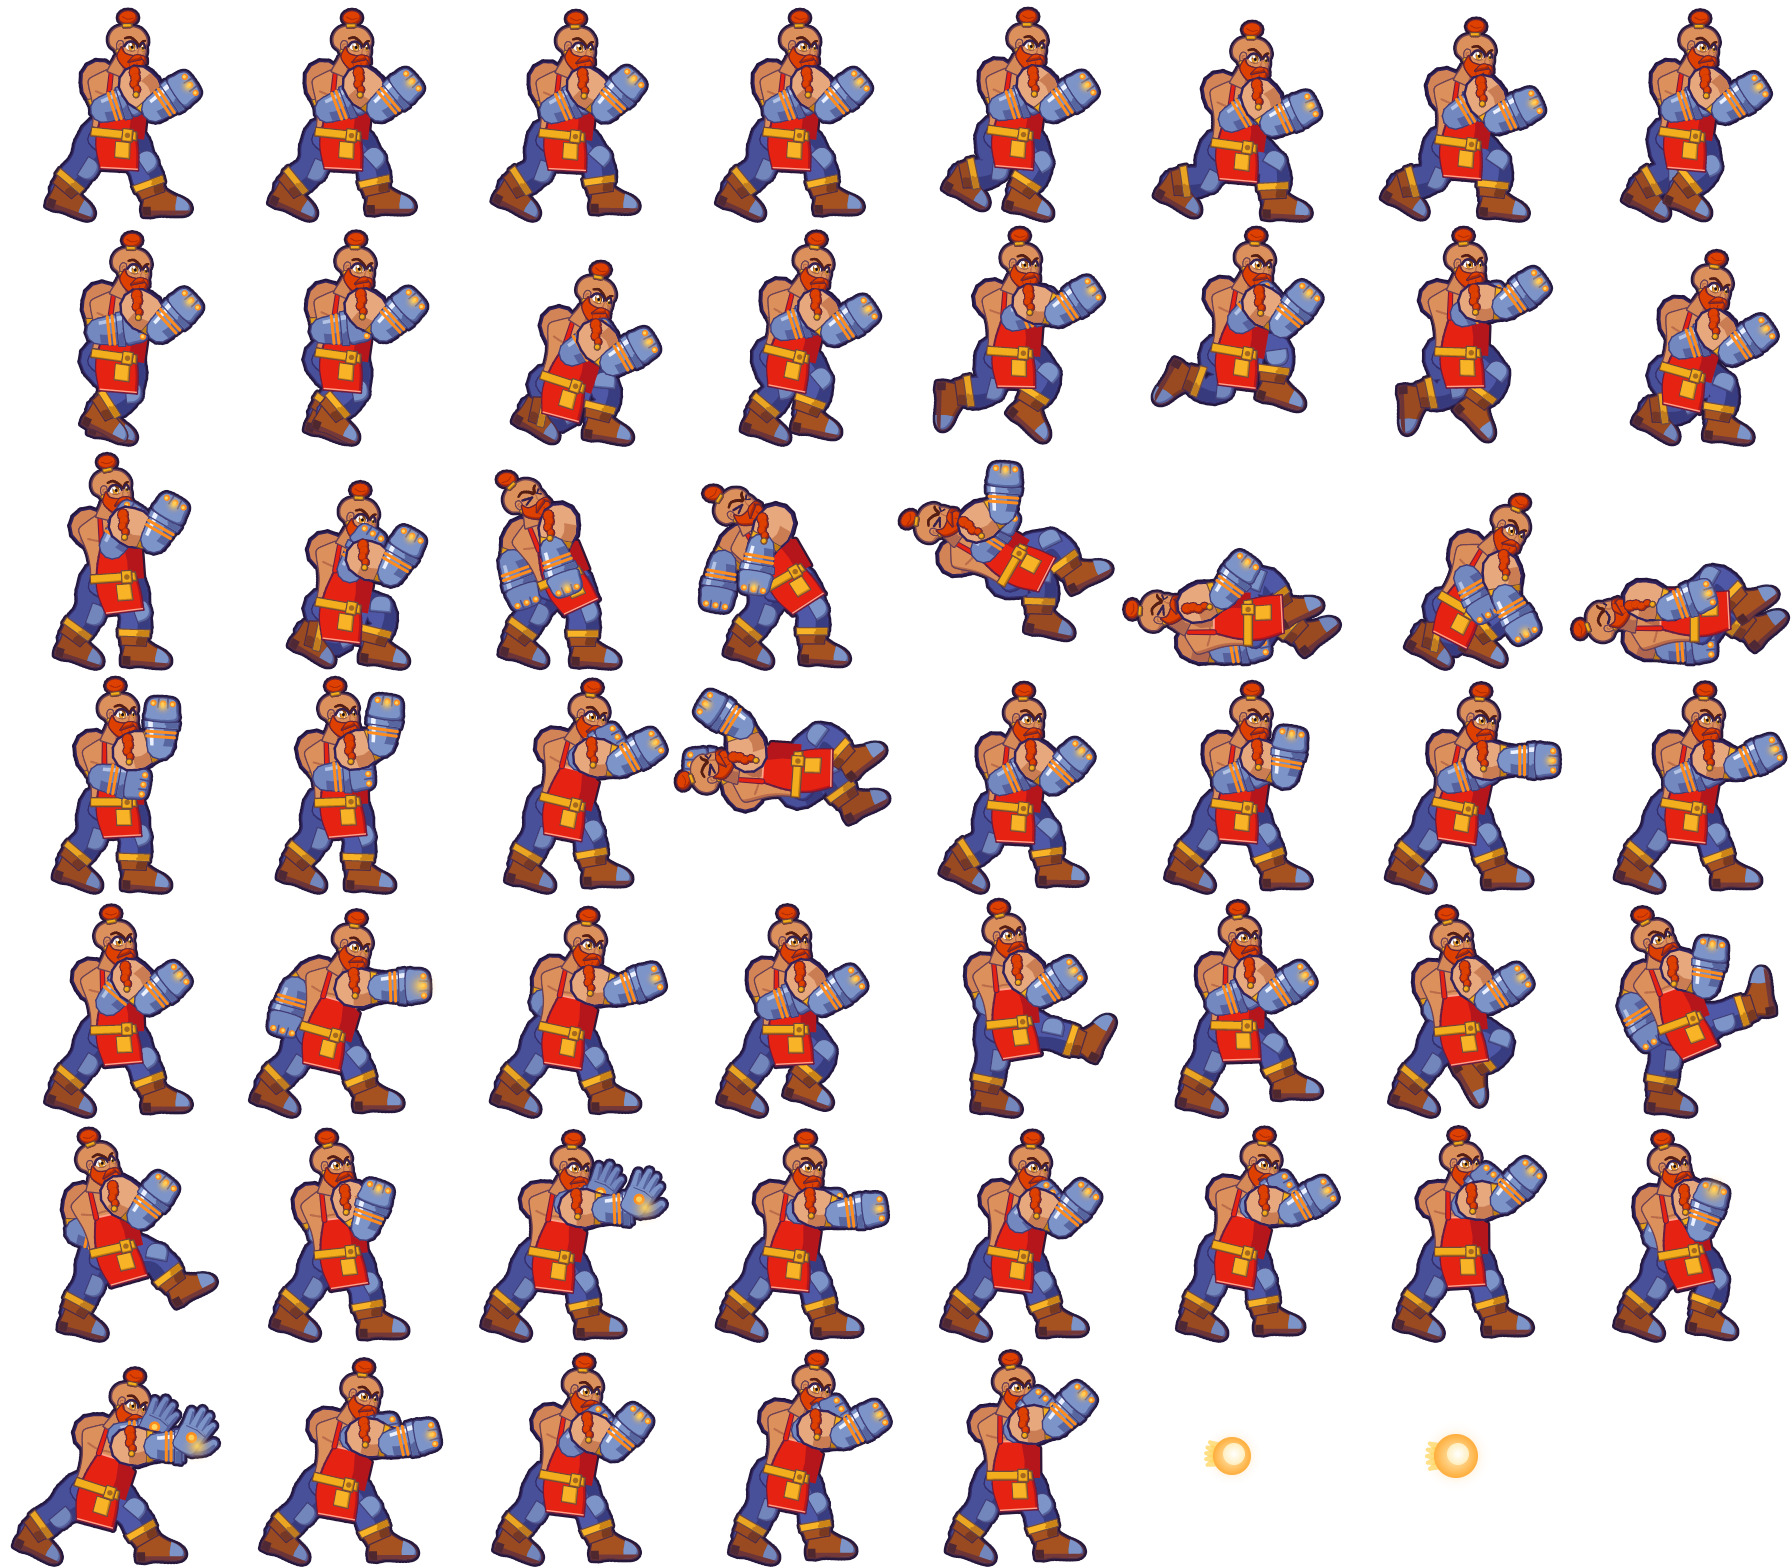
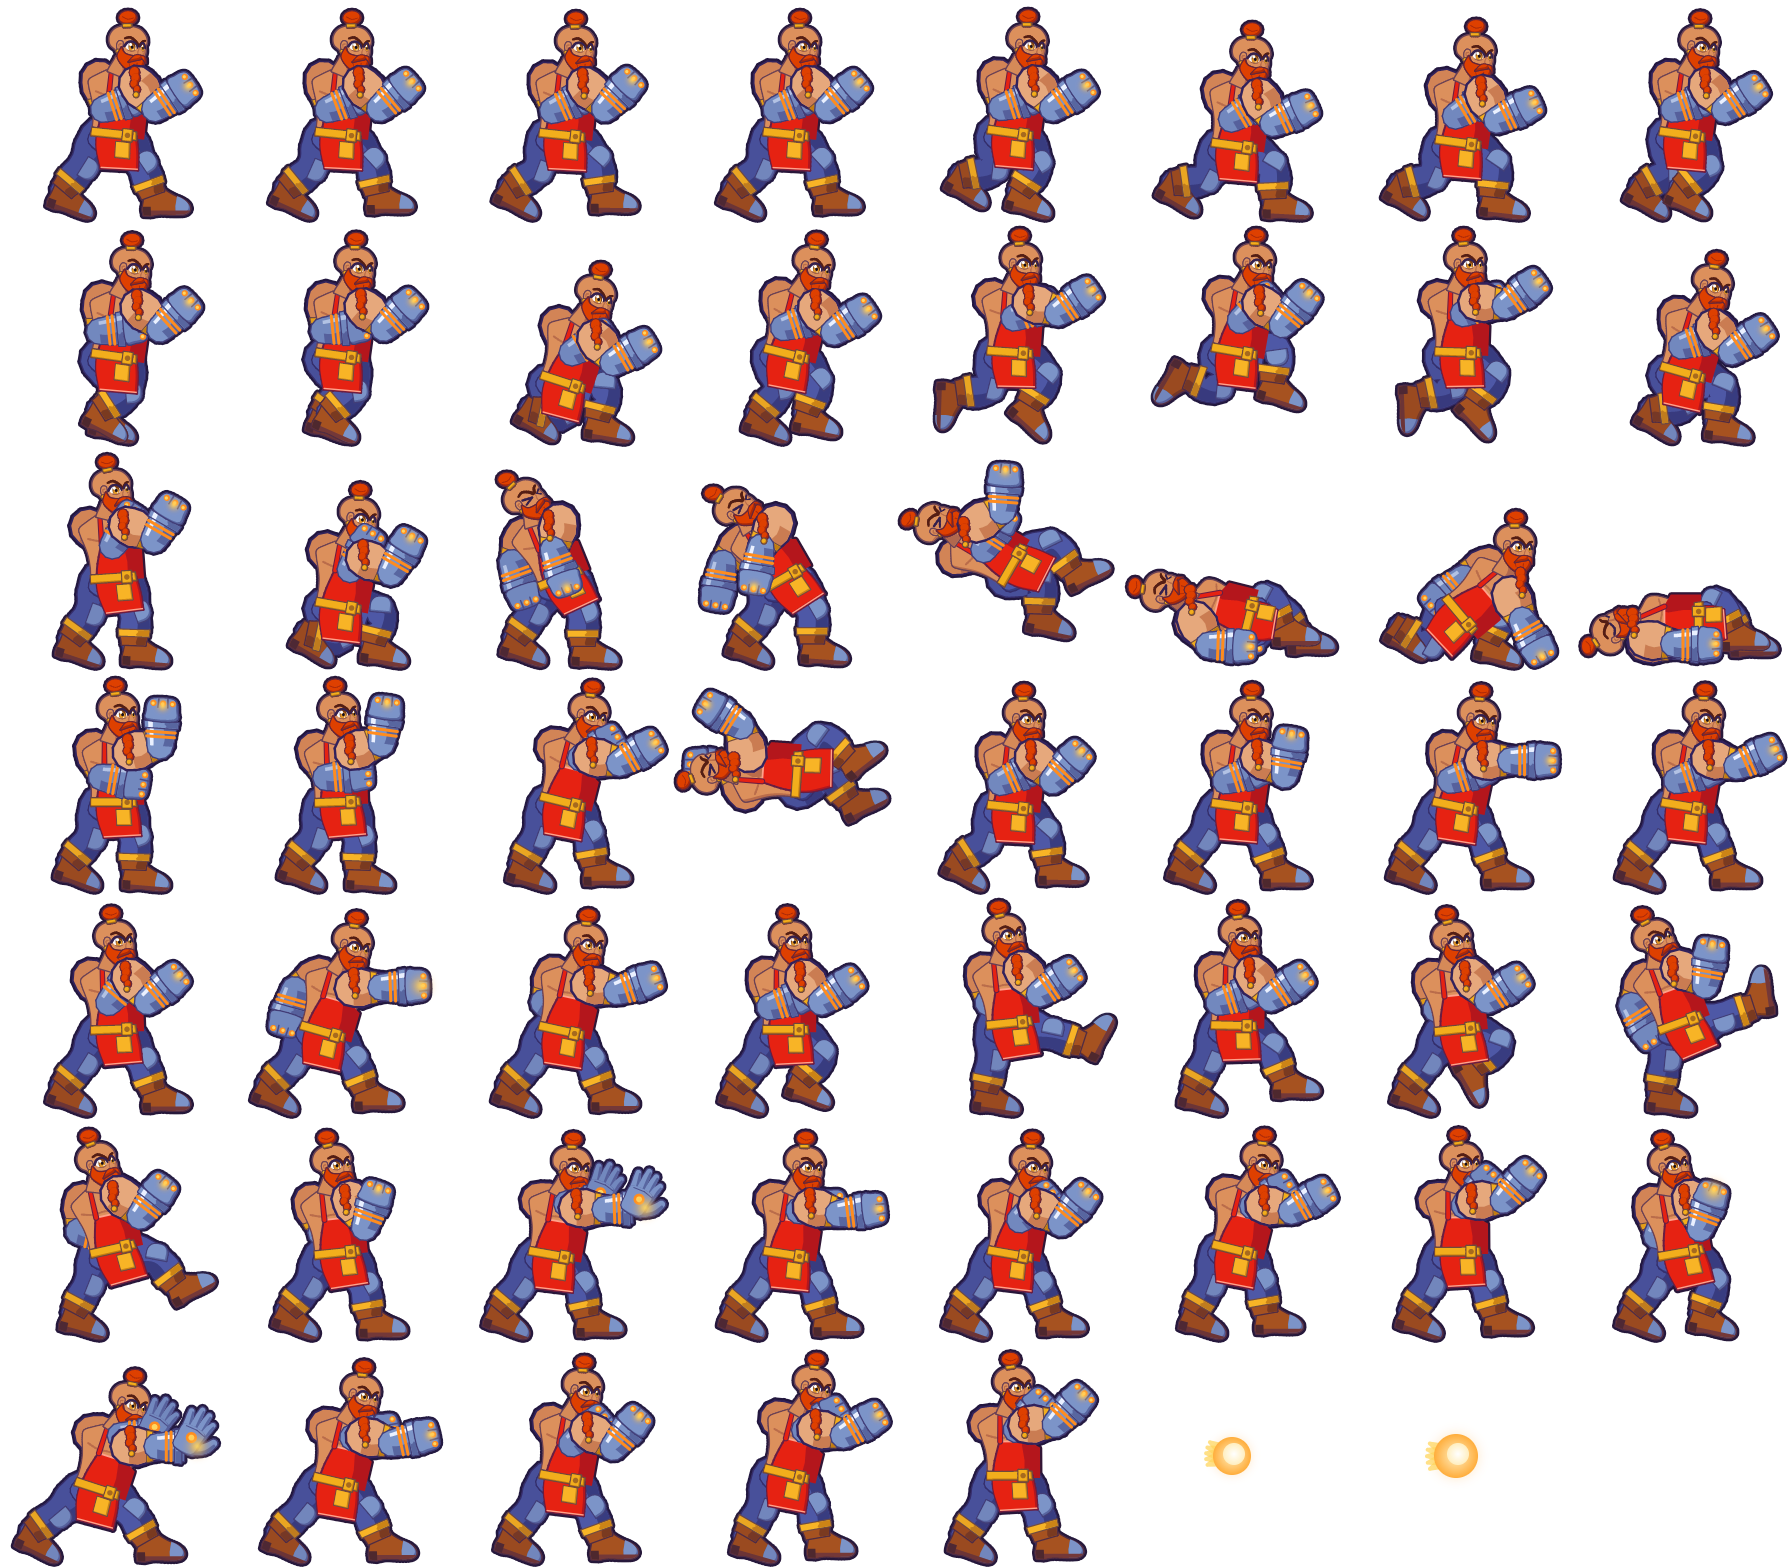
fix(art): lay Bruno and Rook out in one line when they are down
- ko_0 and down_1: shoulders and hips sit on the ground side, the near arm
  lies beside the body, knees are raised with the soles flat, and down_1
  props the head and shoulders up on a forearm
- Bruno's apron settles on his lap and his beard braid hangs with gravity;
  Rook's crest flattens along the floor
- Bruno getup_0: far knee down, near foot planted, one gauntlet pushing off
  the ground and the other trailing behind

Claude-Session: https://claude.ai/code/session_01Y9XV58RY4sDZejHydTbcae

Changed region(s): [[0.625, 0.3125, 1.0, 0.4375], [0.5312, 0.3125, 0.5625, 0.3438], [0.4062, 0.4688, 0.4375, 0.5]]

diff --git a/scripts/art/fighter_designs.py b/scripts/art/fighter_designs.py
@@ -17,6 +17,9 @@ Frame context `ctx` (all optional):
          hangs or trails in the finished frame instead of turning with the body
   trail  cloth trails at least this far back (heading in degrees; 90 down, 180 straight behind): a rising body
   curl   -1..1 how the braid bends along its length (+ whips upward, - arcs back down); default follows lift
+  flat   True for a lying figure seen as one line along the ground: both shoulders and both hips sit on the
+         ground side of the body (so an arm lies beside it instead of across the chest) and the soles are
+         put flat on the ground
   plant  a reference pose: both feet stay where that pose puts them and the legs are re-solved, so
          the hips can bob without the feet sliding (idle breathing)
 """
@@ -33,7 +36,7 @@ CAST_GLOW = ("hand", True)      # pose["glow"] values that light the hands ("foo
 OUTLINE = rs.OUTLINE
 FIGHTERS = ("kestrel", "bruno", "ilse", "rook")
 CTX = dict(flow=0.0, lift=0.0, sway=0.0, spin=0.0, lying=False, expr="neutral", focus=True, plant=None,
-           hang=None, trail=None, curl=None)
+           hang=None, trail=None, curl=None, flat=False)
 
 
 def M(base, shadow, hi=None, **kw):
@@ -205,6 +208,9 @@ def make_rig(ch, pose, ctx):
     ho = ch.get("hip_off", 4.5 * b)
     R["hip_f"] = add(hip, (ho * s, 0))
     R["hip_b"] = add(hip, (-ho * s, 0))
+    if ctx["flat"]:
+        R["sh_f"], R["sh_b"] = tp(0.86, -7.0 * s), tp(0.87, -9.0 * s)
+        R["hip_f"], R["hip_b"] = add(hip, (-3.0 * s, 0)), add(hip, (-5.0 * s, 0))
     for side, sh, spec in (("f", R["sh_f"], pose["fa"]), ("b", R["sh_b"], pose["ba"])):
         elbow = add(sh, rs.vec(spec[0], upper))
         hand = add(elbow, rs.vec(spec[0] + spec[1], fore))
@@ -628,10 +634,16 @@ def bruno_body(fig, R, glow, glow_hi):
     for w0, w1 in ((-4.0, -4.0), (10.6, 4.8)):
         fk.stroke(fig, [T(0.60, w0), T(1.00, w1)], 1.5 * u * 0.5 + 1.6, 1.3 * u * 0.5 + 1.4, fk.olcol(apron), 3.22)
         fk.stroke(fig, [T(0.60, w0), T(1.00, w1)], 1.5 * u * 0.5 + 0.5, 1.3 * u * 0.5 + 0.4, apron.base, 3.23)
-    skirt = fk.smooth([T(0.06, -8.2), T(0.06, 12.8), T(-0.20, 14.6), T(-0.47, 15.4), T(-0.50, -4.2), T(-0.2, -7.4)], 4, True,
-                      corners=(0, 1, 3, 4))
+    if R["ctx"]["flat"]:        # lying: the skirt settles flat on the lap, shorter and lower than it hangs
+        skirt = fk.smooth([T(0.06, -8.2), T(0.06, 10.6), T(-0.16, 10.6), T(-0.34, 9.0), T(-0.38, -6.2), T(-0.2, -8.4)], 4, True,
+                          corners=(0, 1, 3, 4))
+        hem = [T(-0.33, 8.8), T(-0.365, -6.0)]
+    else:
+        skirt = fk.smooth([T(0.06, -8.2), T(0.06, 12.8), T(-0.20, 14.6), T(-0.47, 15.4), T(-0.50, -4.2), T(-0.2, -7.4)], 4, True,
+                          corners=(0, 1, 3, 4))
+        hem = [T(-0.455, 15.0), T(-0.485, -4.0)]
     fk.cel_shape(fig, skirt, apron, AL, ol=INNER, shift=(2.0, 1.2))
-    fk.stroke(fig, [T(-0.455, 15.0), T(-0.485, -4.0)], 0.7, 0.7, apron.hi or apron.base, AL + 0.03)
+    fk.stroke(fig, hem, 0.7, 0.7, apron.hi or apron.base, AL + 0.03)
     # tool pocket
     pk = fk.smooth([T(-0.06, 2.4), T(-0.06, 9.6), T(-0.30, 10.2), T(-0.30, 2.8)], 3, True, corners=(0, 1, 2, 3))
     fk.cel_shape(fig, pk, patch, AL + 0.25, ol=1.0, shift=(1.2, 1.0))
@@ -680,11 +692,14 @@ def bruno_hair(fig, R):
     # braid hanging from the chin onto the chest, gold bead at the tip
     p = H(0.48, 1.36)
     n = 4
+    g = fk.lv((0.0, 1.0))       # the braid hangs with gravity, whichever way he has been tipped
+    gn = (g[1], -g[0])
+    bead = lambda a_, b_: (p[0] + g[0] * a_ + gn[0] * b_, p[1] + g[1] * a_ + gn[1] * b_)
     for i in range(n):
-        c = add(p, (math.sin(i * 2.6) * 0.07 * r + i * 0.02 * r, i * r * 0.30))
+        c = bead(i * r * 0.30, math.sin(i * 2.6) * 0.07 * r + i * 0.02 * r)
         rr = r * (0.26 - i * 0.03)
         fk.cel_shape(fig, fk.circle(c, rr, 12, 1.0, 1.12), hair, 6.6 + i * 0.01, ol=1.1, shift=(0.06 * r, 0.07 * r))
-    fk.cel_shape(fig, fk.circle(add(p, (0.08 * r, n * r * 0.30 - 0.02 * r)), r * 0.13, 10), gold, 6.7, ol=1.1, shift=(0.7, 0.7))
+    fk.cel_shape(fig, fk.circle(bead(n * r * 0.30 - 0.02 * r, 0.08 * r), r * 0.13, 10), gold, 6.7, ol=1.1, shift=(0.7, 0.7))
     # gold earring
     fk.cel_shape(fig, fk.circle(H(-0.50, 0.34), r * 0.09, 10), gold, 4.5, ol=1.0, shift=(0.6, 0.6))
 
@@ -1307,11 +1322,14 @@ def rook_helmet(fig, R, glow):
     H = lambda f, d: fk.head_pt(R, f, d)
     sh = (0.10 * r, 0.11 * r)
     # plume: horsehair crest rising from the crown and sweeping back
-    plume = fk.hpoly(R, [(0.16, -1.12), (-0.02, -1.74), (-0.66, -2.12), (-1.50, -1.96), (-2.12, -1.26), (-2.36, -0.30),
-                         (-1.92, -0.92), (-1.40, -1.26), (-0.84, -1.30), (-0.44, -1.06)], 5, corners=(5,))
+    # (on a helm resting on the ground the crest cannot sweep down past the back of it: it flattens along the floor)
+    sq = (lambda f, d: (-1.25 + (f + 1.25) * 0.25 if f < -1.25 else f, d)) if R["ctx"]["flat"] else (lambda f, d: (f, d))
+    plume = fk.hpoly(R, [sq(*q) for q in [(0.16, -1.12), (-0.02, -1.74), (-0.66, -2.12), (-1.50, -1.96), (-2.12, -1.26),
+                                          (-2.36, -0.30), (-1.92, -0.92), (-1.40, -1.26), (-0.84, -1.30), (-0.44, -1.06)]],
+                     5, corners=(5,))
     fk.cel_shape(fig, plume, cape, 4.4, ol=INNER, shift=sh)
     for pts in ([(-0.20, -1.32), (-0.80, -1.62), (-1.46, -1.50), (-2.00, -0.90)],):
-        fk.stroke(fig, fk.hpoly(R, pts, 4, closed=False), r * 0.035, r * 0.015, cape.shadow, 4.42)
+        fk.stroke(fig, fk.hpoly(R, [sq(*q) for q in pts], 4, closed=False), r * 0.035, r * 0.015, cape.shadow, 4.42)
     # shell
     shell = fk.hpoly(R, [(-0.96, -0.56), (-0.70, -1.00), (-0.14, -1.20), (0.46, -1.12), (0.88, -0.80), (1.02, -0.30),
                          (1.00, 0.26), (0.90, 0.74), (0.62, 1.10), (0.18, 1.04), (-0.46, 0.84), (-1.02, 0.70), (-1.06, 0.02)],

diff --git a/scripts/art/gen_fighters.py b/scripts/art/gen_fighters.py
@@ -175,8 +175,12 @@ FIGHTER_TWEAKS = {
               "BLOCK": lambda t, P: dict(t, **LOW_GUARD),
               "BLOCK_C": lambda t, P: dict(t, **LOW_GUARD),
               # he is nearly as long as the cell is wide, so he lies with his knees drawn further up
-              "LYING": lambda t, P: dict(t, fa=(20, 34), fl=(70, 124), bl=(44, 86)),
-              "KO": lambda t, P: dict(t, fl=(60, 104), bl=(42, 80)),
+              # and lies in one line along the ground (see FRAME_CTX): arms beside him, knees up, soles down
+              "LYING": lambda t, P: dict(t, **FLAT_LYING),
+              "KO": lambda t, P: dict(t, head=-24, **FLAT_KO),
+              # rising: far knee down behind him, near foot planted under the chest, the near gauntlet pushing
+              # off the ground out in front, the other trailing at his side
+              "GETUP": lambda t, P: dict(t, lean=50, head=-42, fa=(25, 4), ba=(-62, 12), fl=(96, 120), bl=(-30, 92)),
               "FALL": lambda t, P: dict(t, fa=(72, 56), fl=(68, 80), bl=(34, 84)),
               "THROWN": lambda t, P: dict(t, fl=(66, 96), bl=(34, 76)),
               # heavy kick: the gauntlet comes up to the chest so it does not cover the kicking leg
@@ -186,7 +190,8 @@ FIGHTER_TWEAKS = {
     # Rook's guard is lowered the same way so the visor slit stays visible.
     # In full plate he is also too long for the cell with his legs out, so he falls and lies with them drawn up.
     "rook": {"FALL": lambda t, P: dict(t, fa=(70, 52), fl=(70, 86), bl=(36, 88)),
-             "LYING": lambda t, P: dict(t, fl=(70, 124), bl=(44, 86)),
+             "LYING": lambda t, P: dict(t, **FLAT_LYING),
+             "KO": lambda t, P: dict(t, head=-14, **FLAT_KO),
              "BLOCK": lambda t, P: dict(t, **LOW_GUARD),
              "BLOCK_C": lambda t, P: dict(t, **LOW_GUARD)},
     # Ilse holds her orb up at shoulder height rather than overhead, and wards with her palms held out in
@@ -203,6 +208,13 @@ FIGHTER_TWEAKS = {
 }
 
 LOW_GUARD = dict(fa=(66, 84), ba=(56, 92))
+# The two heavy fighters on their backs: near arm on the ground beside the body with the hand past the hip, far arm
+# behind it, knees raised in an inverted V with the feet flat. Winded, the head and shoulders come up on one forearm.
+FLAT_KO = dict(fa=(-8, 8), ba=(-4, 4), fl=(64, 126), bl=(52, 108))
+FLAT_LYING = dict(lean=14, head=2, fa=(-58, 56), ba=(-30, 30), fl=(62, 124), bl=(40, 90))
+# Extra frame context per fighter: {fighter: {frame name: ctx}}.
+FRAME_CTX = {"bruno": {"down_1": dict(flat=True), "ko_0": dict(flat=True)},
+             "rook": {"down_1": dict(flat=True), "ko_0": dict(flat=True)}}
 
 # How far (1x units) a fighter's hips sink below the shared walk cycle, feet staying where the cycle puts them.
 WALK_SINK = {"bruno": 4}
@@ -258,7 +270,7 @@ def frame_specs(fid, fighter):
     out = []
 
     def frame(name, pose, **ctx):
-        out.append((name, pose, ctx))
+        out.append((name, pose, dict(ctx, **FRAME_CTX.get(fid, {}).get(name, {}))))
 
     for i, p in enumerate(T["IDLE"]):
         frame(f"idle_{i}", p, plant=T["IDLE"][0], sway=i * math.pi / 2)

diff --git a/scripts/art/facekit.py b/scripts/art/facekit.py
@@ -434,6 +434,8 @@ def foot_frame(R, side, scale=1.0, lo=-4.0, hi=38.0):
     low = max(R["ankle_f"][1], R["ankle_b"][1])
     if R["grounded"] and an[1] > low - 9.0 * R["s"]:
         ang = max(lo, min(hi, ang * 0.4))      # planted: nearly flat, trailing heel lifts a little
+    if R["ctx"].get("flat"):
+        ang = 90.0                             # lying with the knees up: soles flat on the ground under the figure
     f = (math.cos(math.radians(ang)), math.sin(math.radians(ang)))
     d = (-f[1], f[0])
     s = R["s"] * scale
